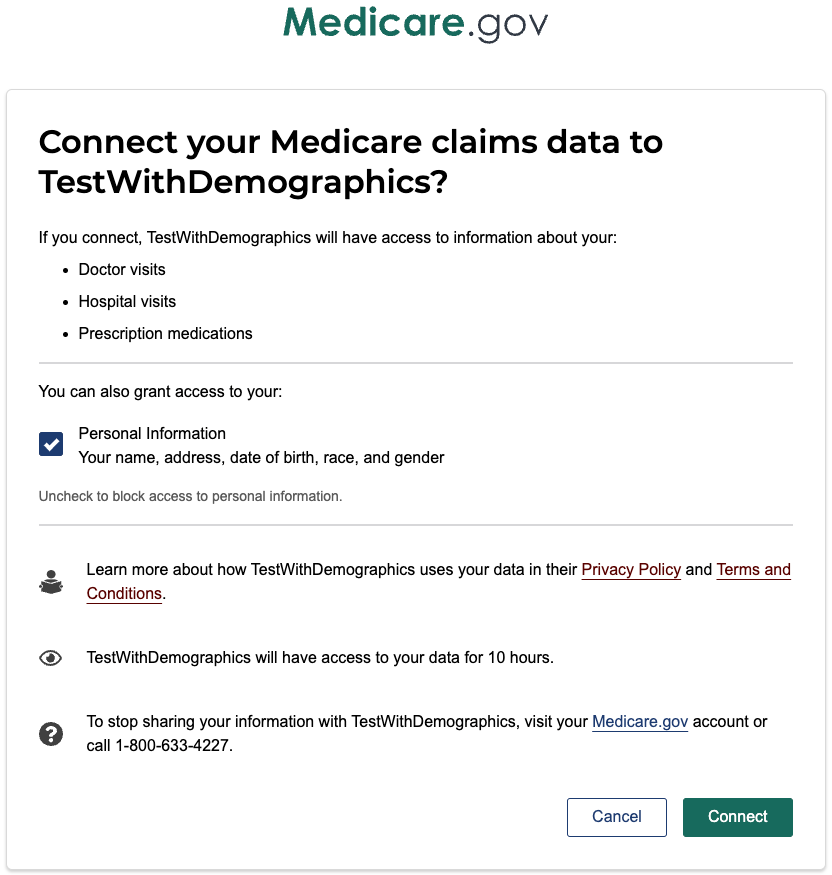
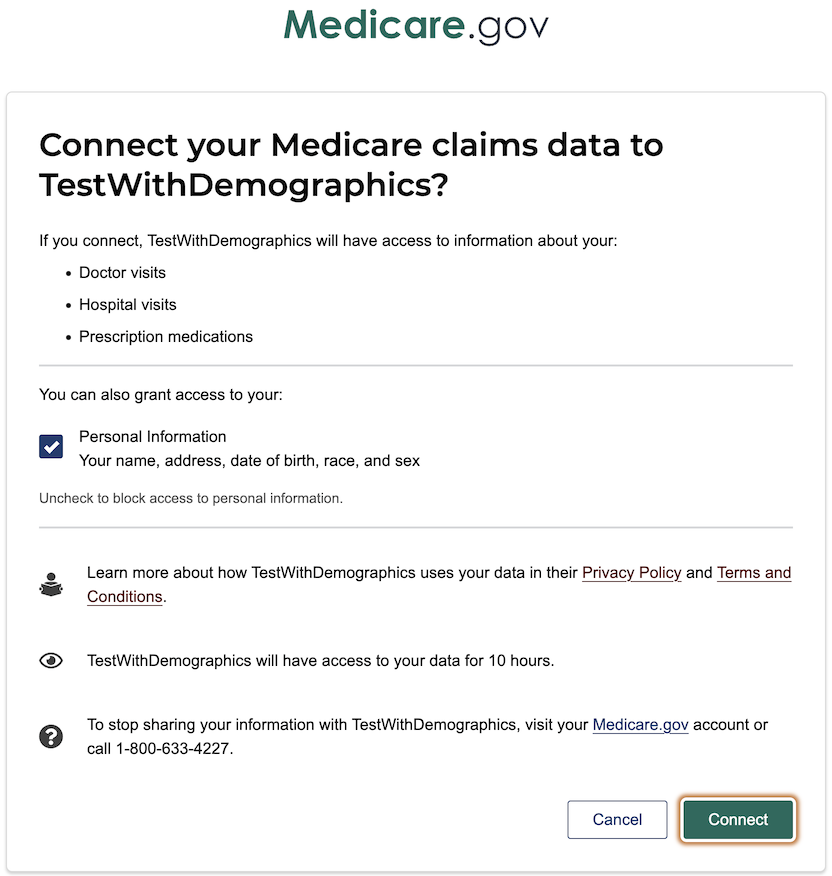
adding currently unambiguous gender to sex verbiage changes (#401)
* adding currently unambiguous gender to sex verbiage changes

* Update _pages/developers.md

* Update _pages/developers.md

* changing gender to sex and adding back in oxford comma

* removing old screenshot

* adding updated screenshot from jimmy

* reverting to gender for the time being until guidance is given

* updated screenshot with gender to sex change

* retaking screenshot to better match previous one

---------

diff --git a/_pages/developers.md b/_pages/developers.md
@@ -228,7 +228,7 @@ This setting determines 2 things:
 
 | **Setting** | **Description**                                                                                                                                                                                                                                                                                                                                                                                                                                                                                                                                                                                                                                                                                                   |
 | -------- | ----------------------------------------------------------------------------------------------------------------------------------------------------------------------------------------------------------------------------------------------------------------------------------------------------------------------------------------------------------------------------------------------------------------------------------------------------------------------------------------------------------------------------------------------------------------------------------------------------------------------------------------------------------------------------------------------------------------- |
-| Yes | Allows your application to request access to a Medicare enrollee's claims data AND personal information such as name, date of birth, race and gender. (Scopes: `patient/Patient.read`, `patient/Coverage.read`, `patient/ExplanationOfBenefit.read`, `profile`)<br><br>Note: When an enrollee is authorizing your application, they will have the ability to omit the `patient/Patient.read` scope. Be sure that you build your application accordingly to handle a 403 error if an enrollee decides to filter their demographic information.<br><br><img style="width: 100%;" src="{{ site.baseurl }}/assets/img/docs/v2/demographic-info-yes.png" alt="Authorization screen with demographic info option" />    |
+| Yes | Allows your application to request access to a Medicare enrollee's claims data AND personal information such as name, date of birth, race, and sex. (Scopes: `patient/Patient.read`, `patient/Coverage.read`, `patient/ExplanationOfBenefit.read`, `profile`)<br><br>Note: When an enrollee is authorizing your application, they will have the ability to omit the `patient/Patient.read` scope. Be sure that you build your application accordingly to handle a 403 error if an enrollee decides to filter their demographic information.<br><br><img style="width: 100%;" src="{{ site.baseurl }}/assets/img/docs/v2/demographic-info-yes.png" alt="Authorization screen with demographic info option" />    |
 | No | Allows your application to request access to the `patient/Coverage.read` and `patient/ExplanationOfBenefit.read` scopes.<br><br><img style="width: 100%;" src="{{ site.baseurl }}/assets/img/docs/v2/demographic-info-no.png" alt="Authorization screen without demographic info option" />                                                                                                                                                                                                                                                                                                                                                                                                                       |
 {:.ds-c-table}
 

diff --git a/_posts/2019-11-13-giving-beneficiaries-more-granular-choice-of-data-sharing copy.md b/_posts/2019-11-13-giving-beneficiaries-more-granular-choice-of-data-sharing copy.md
@@ -31,7 +31,7 @@ As adoption of the Blue Button 2.0 API (BB2.0 API) grows, the CMS Blue Button te
 
 Beginning March 31st, 2020, the application authorization process will allow beneficiaries to choose not to share personally identifying demographic information (e.g., name, date of birth) with applications.  
 
-Beneficiary demographic information like name, race, gender, birthday, and address is stored in the patient resource. This change will allow beneficiaries to elect not to share that demographic data. Developers of applications that rely on demographic data for their application will need to collect that information elsewhere in the user flow should the beneficiary not allow it to be shared through Blue Button 2.0.
+Beneficiary demographic information like name, race, sex, birthday, and address is stored in the patient resource. This change will allow beneficiaries to elect not to share that demographic data. Developers of applications that rely on demographic data for their application will need to collect that information elsewhere in the user flow should the beneficiary not allow it to be shared through Blue Button 2.0.
 
 To allow developers to test this new functionality, CMS will introduce the new choice feature into [sandbox.bluebutton.cms.gov](https://sandbox.bluebutton.cms.gov) in two phases over the coming months:
 

diff --git a/_posts/2018-05-19-How-Beneficiaries-Authorize-an-App.md b/_posts/2018-05-19-How-Beneficiaries-Authorize-an-App.md
@@ -95,7 +95,7 @@ The other information needed to apply for a Medicare account is:
 
 - Last name
 - Date of Birth
-- Gender
+- Sex
 - Five digit zip code
 
 #### Step 1 - Enter Your Information:
